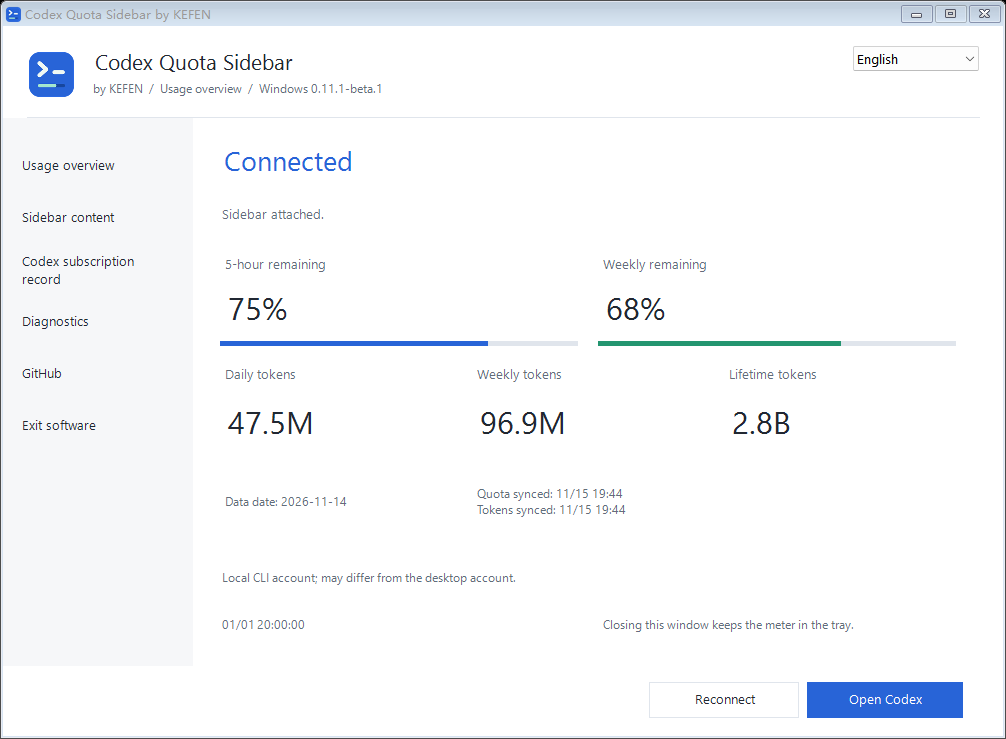
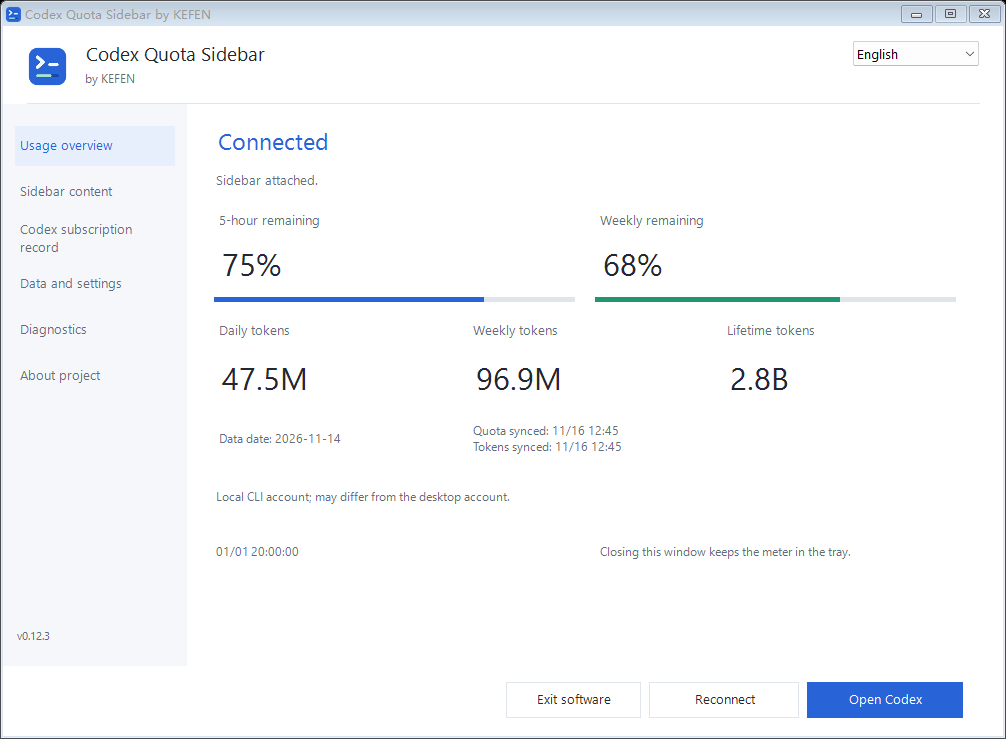
Verify release installers, preserve vendor integrity, and refresh illustrated documentation

diff --git a/browser/panel.js b/browser/panel.js
@@ -5,7 +5,7 @@ locale=allowed.includes(locale)?locale:locale.startsWith('zh')?(locale.includes(
 const t=key=>locale==='en'?key:(CQS_STRINGS[key]?.[locale==='zh-TW'?1:0]||key);
 document.querySelector('#extension-id').textContent=chrome.runtime.id;
 document.querySelector('#help-id').textContent=chrome.runtime.id;
-document.querySelector('#version').textContent='v'+(chrome.runtime.getManifest?.().version||'0.3.0');
+document.querySelector('#version').textContent='v'+(chrome.runtime.getManifest?.().version||'0.3.1');
 const choices=['5-hour remaining','Weekly remaining','Daily tokens','Weekly tokens','Lifetime tokens'];
 let visible={};try{visible=JSON.parse(localStorage.getItem('cqs-visible')||'{}');if(!visible||typeof visible!=='object')visible={};}catch{}
 function switchPage(id){document.querySelectorAll('main>section').forEach(el=>el.hidden=el.id!==id);document.querySelectorAll('[data-page]').forEach(el=>el.setAttribute('aria-current',el.dataset.page===id?'page':'false'));}
@@ -39,7 +39,7 @@ language.addEventListener('change',()=>{locale=language.value;try{localStorage.s
 button.addEventListener('click',refresh);document.addEventListener('visibilitychange',()=>{if(!document.hidden)refresh();});setInterval(refresh,60000);render();refresh();
 document.querySelector('#retry').addEventListener('click',refresh);
 document.querySelector('#export').addEventListener('click',()=>{
- const report={tool:'Codex Quota Sidebar by KEFEN',version:chrome.runtime.getManifest?.().version||'0.3.0',connection:error?'helper-unavailable':data?.ok?'snapshot-read':'snapshot-unavailable',exportedAt:new Date().toISOString()};
+ const report={tool:'Codex Quota Sidebar by KEFEN',version:chrome.runtime.getManifest?.().version||'0.3.1',connection:error?'helper-unavailable':data?.ok?'snapshot-read':'snapshot-unavailable',exportedAt:new Date().toISOString()};
  const url=URL.createObjectURL(new Blob([JSON.stringify(report,null,2)],{type:'application/json'}));const link=document.createElement('a');link.href=url;link.download='Codex-Quota-Sidebar-browser-diagnostics.json';link.click();setTimeout(()=>URL.revokeObjectURL(url),1000);
  document.querySelector('#help-feedback').textContent=t('Review diagnostics before attaching them to a GitHub issue. No files are uploaded automatically.');
 });

diff --git a/mac/Bootstrap.swift b/mac/Bootstrap.swift
@@ -7,12 +7,12 @@ enum Bootstrap {
         guard let payload = Bundle.main.resourceURL?.appendingPathComponent("payload"), fm.fileExists(atPath: payload.path) else { return }
         let marker = root.appendingPathComponent("versions.json")
         let packagedVersion = try Data(contentsOf: payload.appendingPathComponent("versions.json"))
-        if let installedVersion = try? Data(contentsOf: marker), installedVersion == packagedVersion { return }
         for path in [root, root.appendingPathComponent(".runtime")] {
             if (try? path.resourceValues(forKeys: [.isSymbolicLinkKey]).isSymbolicLink) == true {
                 throw NSError(domain: "CQS", code: 3, userInfo: [NSLocalizedDescriptionKey: "Linked installation folders are not supported."])
             }
         }
+        if let installedVersion = try? Data(contentsOf: marker), installedVersion == packagedVersion { return }
         let lock = root.appendingPathComponent(".runtime/mac.pid")
         if let text = try? String(contentsOf: lock, encoding: .utf8), let pid = Int32(text.trimmingCharacters(in: .whitespacesAndNewlines)), pid > 1, kill(pid, 0) == 0 {
             throw NSError(domain: "CQS", code: 1, userInfo: [NSLocalizedDescriptionKey: "Exit the previous Codex Quota Sidebar before installing this update."])

diff --git a/mac/QuotaSidebar.swift b/mac/QuotaSidebar.swift
@@ -82,6 +82,8 @@ final class QuotaApp: NSObject, NSApplicationDelegate, NSWindowDelegate {
         window.title = "Codex Quota Sidebar"; window.delegate = self; window.center(); window.isReleasedWhenClosed = false
         window.appearance = NSAppearance(named: .aqua)
         window.backgroundColor = .white
+        window.contentView!.wantsLayer = true
+        window.contentView!.layer?.backgroundColor = NSColor.white.cgColor
         let container = NSStackView(); container.orientation = .vertical; container.alignment = .leading; container.spacing = 14
         container.edgeInsets = NSEdgeInsets(top: 24, left: 24, bottom: 24, right: 24)
         container.translatesAutoresizingMaskIntoConstraints = false

diff --git a/README.md b/README.md
@@ -32,24 +32,27 @@ synthetic data. Not a capture of the live Codex application or a real account.
 
 | Platform | Version | Availability |
 | --- | --- | --- |
-| Windows 10/11 x64 | 0.11.2-beta.1 | Local sidebar-safety candidate; awaiting user acceptance; unsigned |
-| macOS Apple Silicon | 0.3.1-alpha.1 | Experimental source; not compiled or tested on Mac |
-| Chrome MV3 | 0.2.1 | Experimental companion; requires the Windows native host |
+| Windows 10/11 x64 | 0.12.3 | User-accepted stable release; unsigned installer |
+| macOS Apple Silicon / Intel | 0.4.1-alpha.1 | Experimental DMGs; unsigned/not notarized; real-account acceptance pending |
+| Chrome MV3 | 0.3.1 | Companion extension; requires the local desktop monitor and native host |
 
-Windows 0.11.0 user acceptance was confirmed on 2026-11-15. This branding patch
-has automated verification but no separate user acceptance. Platform versions are
+Windows 0.12.3 was accepted by the user on 2026-11-16. Platform versions are
 independent; Windows acceptance does not imply macOS or browser-profile acceptance.
+Mac packages require macOS 13.5+ and a compatible official Codex client. The
+currently audited official download is Apple Silicon only; the Intel companion
+does not make an ARM-only official client compatible with Intel.
 
 ## Downloads And Instructions
 
-- [Windows installer and checksums](https://github.com/kefen/codex-quota-sidebar/releases/tag/windows/v0.11.1-beta.1)
-- [Chrome extension ZIP](https://github.com/kefen/codex-quota-sidebar/releases/tag/chrome/v0.2.1)
-- [macOS experimental source only](https://github.com/kefen/codex-quota-sidebar/releases/tag/macos/v0.3.1-alpha.1)
+- [Windows installer and checksums](https://github.com/kefen/codex-quota-sidebar/releases/tag/windows/v0.12.3)
+- [Chrome extension ZIP](https://github.com/kefen/codex-quota-sidebar/releases/tag/chrome/v0.3.1)
+- [macOS experimental installers](https://github.com/kefen/codex-quota-sidebar/releases/tag/macos/v0.4.1-alpha.1)
 - **[Step-by-step illustrated user guide](docs/USER-GUIDE.md)**
 - [Release and acceptance record](docs/RELEASES.md)
 
 Use the named setup/extension assets, not GitHub's automatically generated source
-ZIP, to install Windows or Chrome. All three releases are prereleases.
+ZIP, to install Windows or Chrome. Only Windows is promoted to stable; Mac and
+browser remain explicitly experimental until their real-account/profile acceptance.
 
 **Browser upgrade:** the native-host name is now `org.kefen.codex_quota_sidebar`.
 Update both desktop and extension, and register again. Follow the
@@ -154,15 +157,16 @@ Fixture screenshots are not proof of live-account or Mac acceptance.
 
 ## macOS Boundary
 
-The AppKit management source follows the same design and three-language catalog,
-including usage overview and GitHub navigation. There is **no accepted Mac
-installer or binary**. Windows cannot verify AppKit compilation or layout.
+The AppKit app shares the three-language catalog and six same-window sections.
+Intel and Apple Silicon packages are built and UI-tested on their native GitHub
+macOS runners. Real-account connection acceptance is still pending. The packages
+are ad-hoc signed, not Developer ID signed or notarized.
 
-`mac/trust.json` intentionally lacks a developer Team ID and fails closed
-until the official app signature is verified on a real Mac. Do not remove this
-check to make a build launch. Packaging, upgrade preservation, signing,
-notarization and live sidebar acceptance remain release gates.
-See [release checklist](RELEASE-CHECKLIST.md).
+`mac/trust.json` pins OpenAI's verified Team ID; the launcher also validates the
+bundle identifier, full signature and loopback listener ownership. See the
+[publisher audit](https://github.com/kefen/codex-quota-sidebar/actions/runs/43805495761)
+and [Mac installation instructions](docs/USER-GUIDE.md#macos-experimental-installation).
+Do not bypass signature checks. Native compilation is not proof of live quota access.
 
 ## Contributing
 

diff --git a/docs/USER-GUIDE.md b/docs/USER-GUIDE.md
@@ -8,8 +8,8 @@ Windows UI using test fixtures, not real account data.
 
 Open [Releases](https://github.com/kefen/codex-quota-sidebar/releases).
 For Windows 10/11 x64, download the asset ending in
-`Windows-0.11.1-beta.1-x64-Setup.exe`, plus its SHA256 file if verifying integrity.
-Chrome uses the separate `Chrome-0.2.1.zip`. Mac is source-only, not a DMG installer.
+`Windows-0.12.3-x64-Setup.exe`, plus its SHA256 file if verifying integrity.
+Chrome uses the separate `Chrome-0.3.1.zip`. Mac has experimental architecture-specific DMGs (see below).
 The unsigned Windows executable may trigger an unknown-publisher warning.
 Verify its origin; never disable security software to get around a detection.
 
@@ -84,8 +84,9 @@ this project's actual component.
 | Reconnect | Retries attachment; restart still requires confirmation |
 | Sidebar content | Changes visible metrics; save to apply |
 | Codex subscription record | Optional manual plan and renewal/expiry dates |
-| Diagnostics | Exports allow-listed diagnostic metadata |
-| GitHub | Opens this repository |
+| Diagnostics and help | Explains troubleshooting, then exports sanitized diagnostics for manual submission |
+| About project | Shows project details and a link to GitHub |
+| Data and settings | Backs up/restores settings or clears local observation history |
 | Window close button | Hides the panel while monitoring continues in the tray |
 | Exit software | Stops the meter; leaves Codex open |
 
@@ -94,6 +95,31 @@ for this tool. Choose your actual Codex plan and purchase date, or manually ente
 renewal/expiry. Estimated monthly/annual dates are not verified billing dates.
 Free, enterprise and organization-managed plans may not have an individual renewal.
 Skip the record when it does not apply. It never changes official subscription rights.
+
+Saving keeps you on the same page. The button briefly shows success, then returns
+to Save. While connected, sidebar settings apply automatically; no reconnect is
+needed. Unsaved edits are confirmed before leaving a page. Official Codex controls
+always take precedence: the sidebar scrolls when space is limited and collapses
+only when space is severely constrained.
+
+## macOS Experimental Installation
+
+Choose `arm64` for Apple Silicon or `x86_64` for Intel. Open the DMG, drag
+Codex Quota Sidebar into Applications, then open it. Keep the application there;
+do not run from the mounted disk image. The first run creates its private payload
+in `~/Library/Application Support/CodexSidebarMeter` and asks for connection consent.
+The app is ad-hoc signed, not Developer ID signed or notarized. macOS may block it;
+verify the repository and checksum before using System Settings > Privacy & Security
+to approve it. Do not disable Gatekeeper or run blanket quarantine-removal commands.
+
+Install the official Codex desktop client separately and sign in first. A supported
+client must have bundle ID `com.openai.codex`, the verified OpenAI publisher, and a
+bundled CLI. The official audited image now names it ChatGPT.app. The currently
+audited image is ARM-only: the Intel companion needs a separately compatible Intel
+official client. Its existence/availability is not guaranteed by this project.
+If a running client lacks local debugging, save work and fully quit it before
+reconnecting. Mac never silently terminates the official app. Real-account
+connection acceptance remains pending on both Mac architectures.
 
 The desktop language is saved and applied to sidebar labels. Settings backup and
 restore do not contain authentication or connection permission, but do contain

diff --git a/browser/README.md b/browser/README.md
@@ -50,11 +50,13 @@ Registration changes only the current user's Chrome Native Messaging registry
 entry. It is not performed silently by the installer. The native helper lives
 outside the extension ZIP. Do not run registration as administrator.
 
-## Mac source only
+## macOS Experimental Native Host
 
-After desktop real-machine acceptance, the corresponding command from its
-installation directory is `./runtime/node browser/Register-Mac.mjs EXTENSION_ID`;
-append `--remove` to unregister. Not validated on macOS yet.
+After launching the DMG-installed companion, open Terminal in
+`~/Library/Application Support/CodexSidebarMeter` and run
+`./runtime/node browser/Register-Mac.mjs EXTENSION_ID`;
+append `--remove` to unregister. Real-profile registration acceptance on Mac
+is still pending; confirm desktop connection before registering.
 
 ## Boundaries
 

diff --git a/CHANGELOG.md b/CHANGELOG.md
@@ -139,3 +139,13 @@
   heights; keep spacing between action groups and preserve long-text wrapping.
 - Windows-only visual iteration; save behavior, language choice and English
   shortcut naming are unchanged. Not publicly released.
+
+# 2026-11-16: Windows 0.12.3 / Chrome 0.3.1 / macOS 0.4.1-alpha.1
+
+- Promote the user-accepted Windows UI to stable without changing its behavior.
+- Mac: single-window pages, in-place save feedback, validated backup/restore,
+  compact layout, official publisher verification and updated bundled CLI discovery.
+- Browser: three-language navigation and retained checkbox keyboard focus.
+- Package both native Mac architectures; explicitly retain experimental status
+  and disclose the official client's Intel compatibility prerequisite.
+- Update illustrated English documentation and checksummed release automation.

diff --git a/docs/RELEASES.md b/docs/RELEASES.md
@@ -30,3 +30,10 @@ includes the corresponding SHA256 file. No signing/notarization claim is made.
 isolated install, upgrade, uninstall, rollback, restart-ownership and layout tests.
 Public packaging runs build and extraction checks again. This is not an
 independent security audit.
+# 2026-11-16 Release Set
+
+- Windows **0.12.3 stable**: user acceptance and public publication authorized.
+- Chrome **0.3.1 experimental**: synchronized three-language interface and keyboard-focus fix.
+- macOS **0.4.1-alpha.1**: native Intel and Apple Silicon DMGs; unsigned/not notarized; real-account acceptance pending.
+- Mac publisher evidence: Actions run 43805495761, official bundle com.openai.codex, Team ID 2DC432GLL2. The audited official client is ARM-only.
+- The Windows accepted UI is unchanged from 0.12.3-beta.1; only stable metadata was promoted.
